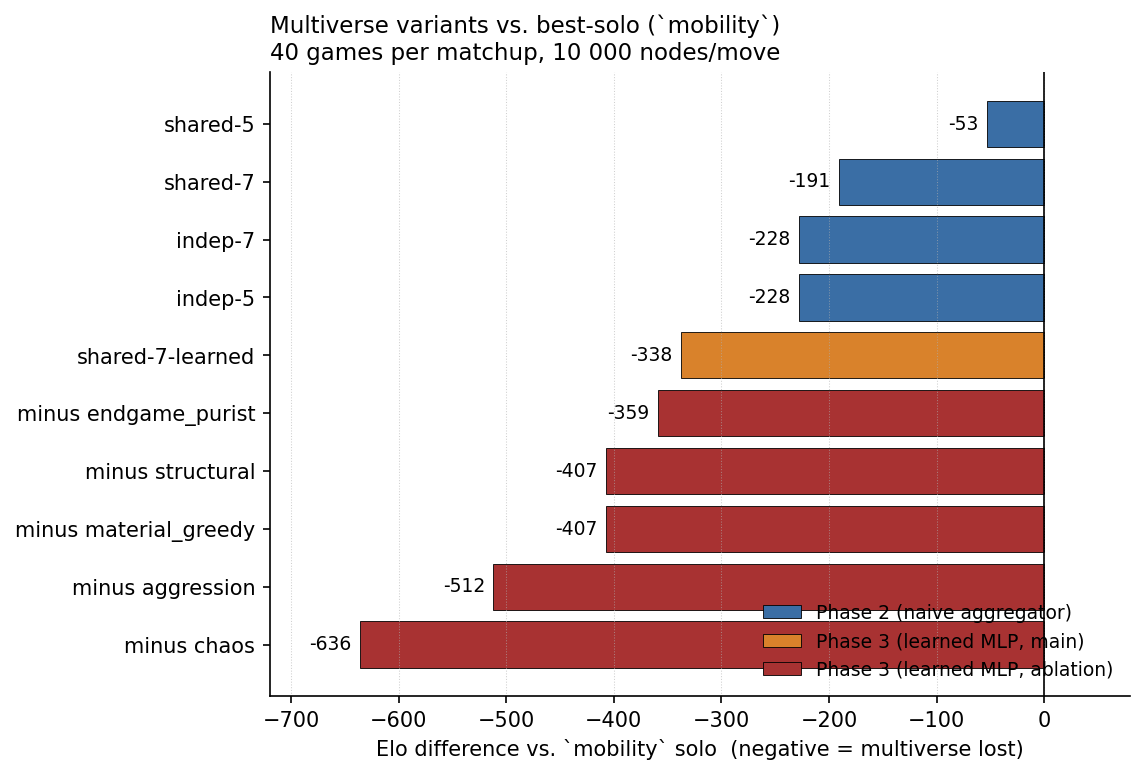
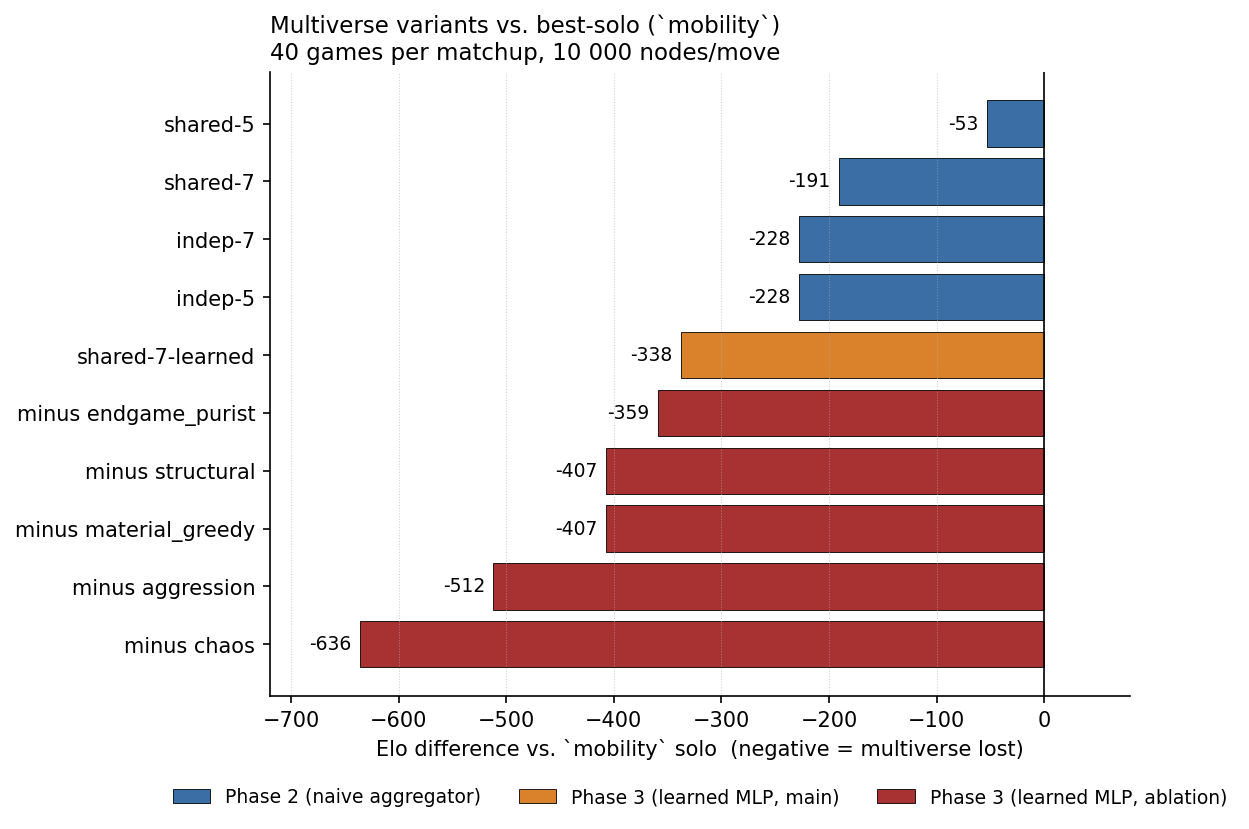
Move Figure 3 legend below the plot so it doesn't overlap long bars

Changed region(s): [[0.0, 0.0, 0.9782, 0.991]]

diff --git a/experiments/make_figures.py b/experiments/make_figures.py
@@ -175,11 +175,15 @@ def make_fig2_elo() -> None:
         plt.Rectangle((0, 0), 1, 1, color=PHASE_COLORS[k], ec="black", lw=0.4)
         for k in ("phase2", "phase3_main", "phase3_ablation")
     ]
+    # Legend goes BELOW the plot area in a single horizontal row -- the lower
+    # right corner is occupied by the longest bars, and an in-axes legend would
+    # overlap them. Bottom-anchored legend keeps the data region uncluttered.
     ax.legend(handles,
               ["Phase 2 (naive aggregator)",
                "Phase 3 (learned MLP, main)",
                "Phase 3 (learned MLP, ablation)"],
-              loc="lower right", frameon=False, fontsize=9)
+              loc="upper center", bbox_to_anchor=(0.5, -0.12),
+              ncol=3, frameon=False, fontsize=9)
     fig.savefig(FIG_ELO); plt.close(fig); print(f"wrote {FIG_ELO}")
 
 
